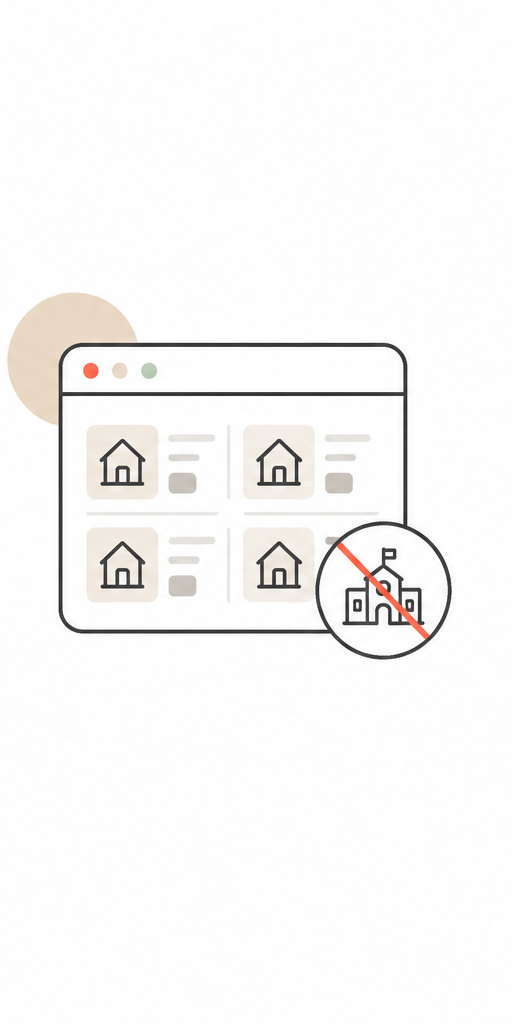
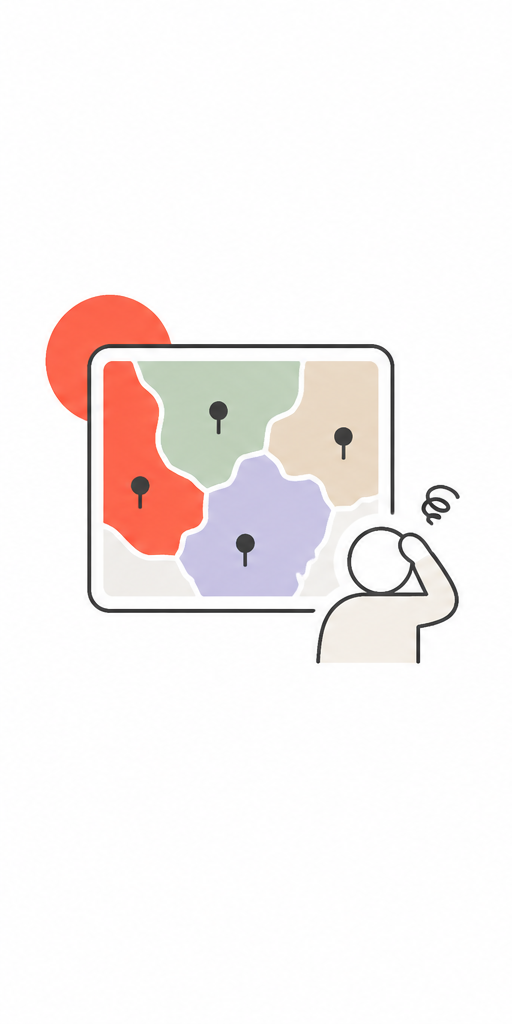
Replace problem card emojis with illustrations, restore grey background

Changed region(s): [[0.0, 0.2812, 0.9062, 0.6562]]

diff --git a/schoolmap-case-study.html b/schoolmap-case-study.html
@@ -194,7 +194,7 @@ footer{padding:22px 48px;display:flex;justify-content:space-between;align-items:
 .prob-imagine{display:flex;align-items:center;justify-content:center}
 .prob-imagine img{width:100%;height:auto;display:block}
 .prob-cards{display:flex;flex-direction:column;gap:12px;margin-bottom:40px}
-.prob-card{background:transparent;border-radius:16px;padding:16px 20px;display:flex;align-items:center;gap:24px}
+.prob-card{background:#F5F5F5;border-radius:16px;padding:16px 20px;display:flex;align-items:center;gap:24px}
 .prob-card-img{width:130px;min-width:130px;height:130px;object-fit:contain;mix-blend-mode:multiply}
 .prob-card-body{flex:1}
 .prob-card-body p{margin-bottom:0}